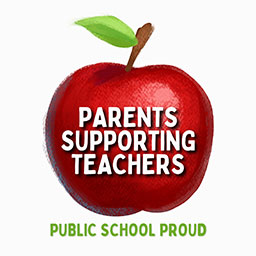
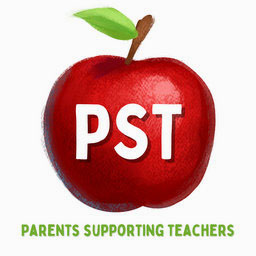
font and some edits

Changed region(s): [[0.0625, 0.0, 0.9375, 0.9375]]

diff --git a/html/lausd/index.html b/html/lausd/index.html
@@ -6,11 +6,13 @@
 
 <link rel="stylesheet" href="https://cdn.jsdelivr.net/npm/bootstrap@4.5.3/dist/css/bootstrap.min.css" integrity="sha384-TX8t27EcRE3e/ihU7zmQxVncDAy5uIKz4rEkgIXeMed4M0jlfIDPvg6uqKI2xXr2" crossorigin="anonymous">
 
+
 <script type="text/javascript" src="https://www.gstatic.com/charts/loader.js"></script>
 <!-- for CSV mainly since gcharts -->
 <script src="https://d3js.org/d3.v5.min.js"></script>
 
 <style>
+
 body{font-family: -apple-system, BlinkMacSystemFont, "Segoe UI", "Roboto", "Helvetica Neue", Arial, sans-serif; background-color:#fbfbfb;}
 .footer {
   position: fixed;
@@ -20,6 +22,12 @@ body{font-family: -apple-system, BlinkMacSystemFont, "Segoe UI", "Roboto", "Helv
   line-height: 60px; /* Vertically center the text there */
   background-color: #f5f5f5;
 }
+
+@font-face {
+  font-family: 'webfont';
+  src: url('font.woff2') format('woff2');
+}
+
 td,th {
 	padding-right:1em;
 }
@@ -432,18 +440,27 @@ window.onload = function () {
 <main class="container-fluid mt-3">
 	<div class="row">
 
-		<div class="col-xl-6 col-lg-8 col-md-12 off-xl-4 offset-lg-2">
+        <div class="col-xl-6 col-lg-8 col-md-12 off-xl-4 offset-lg-2">
+            
+                <div style='font-family: webfont;padding: 1em; '>
+                    <a style='float: left; margin-right:1em' href='https://www.parentssupportingteachers.org/'><img src='pst.jpg' height="128px" width="128px"></a>
+                    <div>
+                        <div style='color: #7db02f;font-weight:700; font-size:300%; margin-bottom: -0.2em'>LAUSD COVID-19 DASHBOARD</div>
+                        <div style='font-size: 95%'>Parents supporting teachers is the largest LAUSD based parent advocacy group with over 26,000 supporters.</div>
+                    <div>Contact us:
+                        <a href='https://www.facebook.com/groups/375015749917149/'>Facebook</a> 
+                        <a href='https://twitter.com/pst4lapubliced'>Twitter</a>
+                        <a href='https://www.instagram.com/parentssupportingteachers/'>Instagram</a>
+                    </div>
 
-            <h2>
-                <a href='https://www.parentssupportingteachers.org/'><img src='pst.jpg' height="128px" width="128px"></a>
-                LAUSD COVID-19 test results <small>(2021)</small>
-            </h2>
-                <p class='text-muted'>As reported by <a href='https://achieve.lausd.net/covidreportcard'>LAUSD COVID Report Card</a> and <a href='https://twitter.com/DataDrivenMD'>Jorge Caballero</a></p>
+                    <div>Data from <a href='https://achieve.lausd.net/covidreportcard'>LAUSD COVID Report Card</a> and <a href='https://twitter.com/DataDrivenMD'>Jorge Caballero</a></div>
+                </div>
+                </div>
           
 
             <div class='row'>
                 <div class='col-sm-12 mt-4'>
-                <label for="schoolfilt">Filter by school name:</label>
+                <label for="schoolfilt">Type the name of your school, and then scroll down to see your community case rates.</label>
                 </div>
                 <div class='col-sm-12 col-md-6'>
                     <input class="form-control" id="schoolfilt" type="text" placeholder="Type a school name..." onchange="setfilter(this.value)" onkeyup="setfilter(this.value)">
@@ -475,14 +492,12 @@ window.onload = function () {
 
             <div class="card mt-4 mb-5">
                   <div class="card-body">
-                    <h5 class='card-title'>Schools with most active cases, or in-school transmission</h5>
+                    <h5 class='card-title'>Estimate of schools with with the highest percentage of cases <small>based on 2020-2021 enrollment</small></h5>
                     <div id='outbreak'></div>
                     <p class="text-muted mt-1">In-school transmission <span style='opacity:0.6' class="badge badge-pill badge-danger">highlighted in red</span> means: Positive test cases were determined to be epidemiologically (epi)-linked through contact tracing. Two cases may be epi-linked when they were both present in the same setting during the time period while either or both were infectious.
                     </p>
                 </div>
             </div>
-
-
         </div>
     </div>
 </main>
